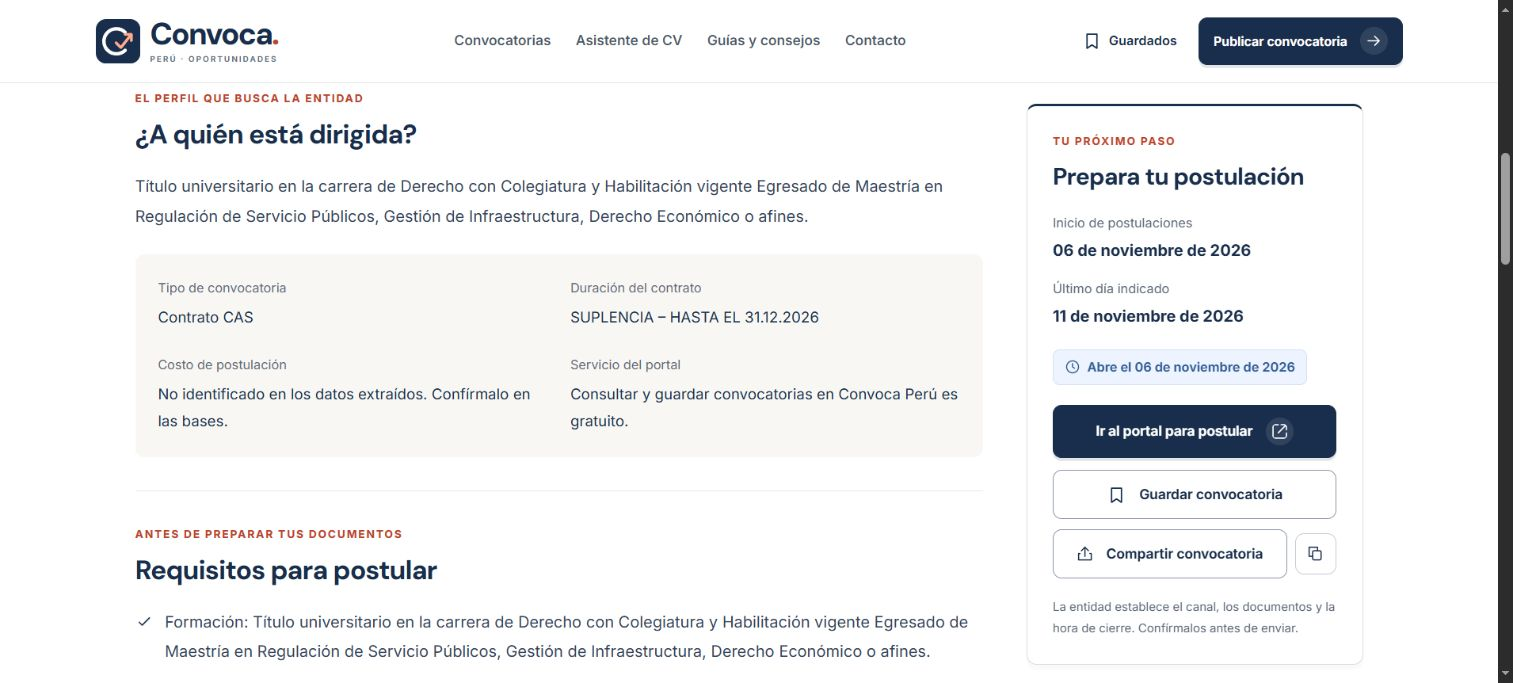
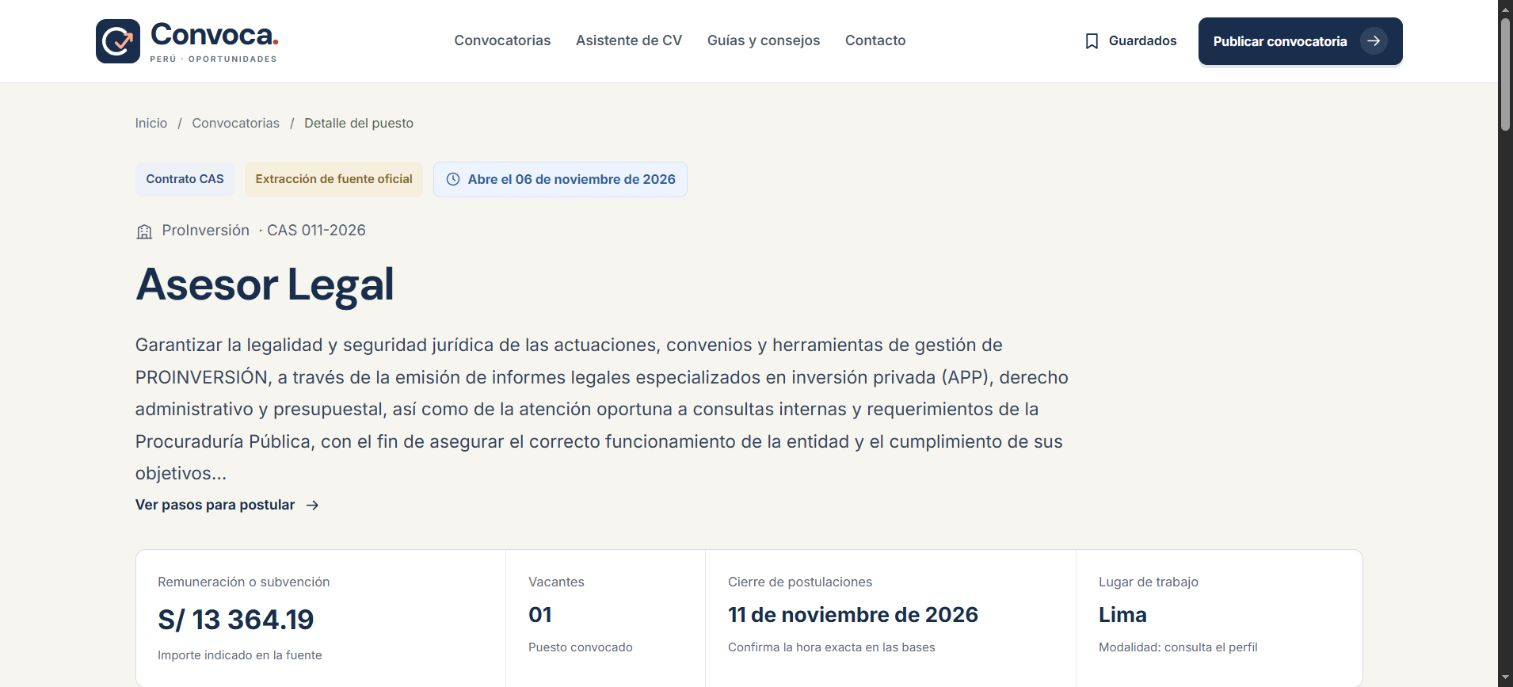
fix: recover transient Gemini timeouts within shared quota

diff --git a/src/app/api/cv/coach/route.ts b/src/app/api/cv/coach/route.ts
@@ -1,6 +1,10 @@
 import { assertOrigin, rateLimit } from "@/lib/editor-auth";
 import { coachRequest } from "@/lib/cv-coach-contract";
-import { coachEnabled, publicJobAdvice } from "@/lib/cv-coach";
+import {
+  coachEnabled,
+  publicJobAdvice,
+  transientCoachError,
+} from "@/lib/cv-coach";
 import { resolveCvJob } from "@/lib/cv-jobs";
 import { readJsonBody, RequestBodyError } from "@/lib/request-body";
 export const runtime = "nodejs";
@@ -81,7 +85,31 @@ export async function POST(request: Request) {
         429,
       );
     stage = "provider";
-    return reply({ advice: await publicJobAdvice(job) });
+    try {
+      return reply({ advice: await publicJobAdvice(job) });
+    } catch (error) {
+      if (!transientCoachError(error)) throw error;
+      // Every provider attempt, including the single retry, consumes shared quota.
+      stage = "retry-limit";
+      if (
+        !(await rateLimit(
+          new Request("https://convoca-peru.invalid"),
+          "cv-global",
+          max,
+          86400,
+        ))
+      )
+        return reply(
+          {
+            error:
+              "Se alcanzó el límite diario de consejos. El análisis local continúa disponible.",
+          },
+          429,
+        );
+      await new Promise((resolve) => setTimeout(resolve, 400));
+      stage = "provider-retry";
+      return reply({ advice: await publicJobAdvice(job) });
+    }
   } catch (error) {
     // Operational metadata only: never log provider messages, prompts, keys or CV text.
     console.error("CV coaching unavailable", {

diff --git a/src/lib/cv-coach.ts b/src/lib/cv-coach.ts
@@ -10,7 +10,7 @@ export function coachEnabled() {
 export async function publicJobAdvice(job: CvJob) {
   const ai = new GoogleGenAI({
     apiKey: process.env.GEMINI_API_KEY!,
-    httpOptions: { timeout: 25000, retryOptions: { attempts: 1 } },
+    httpOptions: { timeout: 12000, retryOptions: { attempts: 1 } },
   });
   const response = await ai.models.generateContent({
     model: process.env.GEMINI_MODEL || "gemini-3.1-flash-lite",
@@ -33,4 +33,18 @@ export async function publicJobAdvice(job: CvJob) {
   const output = response.text || "";
   if (output.length > 16000) throw new Error("Respuesta demasiado grande.");
   return validateAdvice(JSON.parse(output));
+}
+
+export function transientCoachError(error: unknown) {
+  if (
+    error &&
+    typeof error === "object" &&
+    "status" in error &&
+    [503, 504].includes(Number(error.status))
+  )
+    return true;
+  return (
+    error instanceof Error &&
+    ["AbortError", "TimeoutError"].includes(error.name)
+  );
 }

diff --git a/docs/ASISTENTE-CV.md b/docs/ASISTENTE-CV.md
@@ -14,7 +14,7 @@ La API `/api/cv/coach` acepta exclusivamente `{jobKey, adult: true}`. Resuelve e
 
 Esta separación responde a las condiciones de la [cuota gratuita de Gemini](https://ai.google.dev/gemini-api/terms): no se deben enviar datos personales, confidenciales o sensibles. La interfaz informa sobre el proveedor y requiere confirmar mayoría de edad. No hay anuncios en el asistente.
 
-Variables privadas (ver `.env.example`): GEMINI_API_KEY, GEMINI_MODEL, GEMINI_CV_ENABLED y GEMINI_DAILY_LIMIT. No deben usar el prefijo NEXT_PUBLIC_. Límite por conexión: dos consultas por hora. Límite compartido: veinte por ventana de 24 horas por defecto, como máximo cincuenta. En Vercel, los contadores usan la función atómica existente de Supabase. El SDK hace un solo intento por petición y tiene un tiempo máximo de 25 segundos. Las respuestas deben ajustarse al esquema y los errores no incluyen mensajes privados del proveedor.
+Variables privadas (ver `.env.example`): GEMINI_API_KEY, GEMINI_MODEL, GEMINI_CV_ENABLED y GEMINI_DAILY_LIMIT. No deben usar el prefijo NEXT_PUBLIC_. Límite por conexión: dos consultas por hora. Límite compartido: veinte llamadas al proveedor por ventana de 24 horas por defecto, como máximo cincuenta. En Vercel, los contadores usan la función atómica existente de Supabase. Cada intento del SDK dura como máximo 12 segundos, sin reintentos internos. La ruta permite un único reintento ante 503, 504 o timeout; vuelve a consumir el contador global antes de llamar al modelo. No reintenta respuestas inválidas, credenciales rechazadas ni cuotas agotadas. Las respuestas deben ajustarse al esquema y los errores no incluyen mensajes privados del proveedor.
 
 Pruebas reales del 3 de noviembre: inicialmente gemini-3.1-flash-lite respondió HTTP 503 y agotó tiempos de espera. En la comprobación posterior respondió correctamente tanto desde el SDK como a través de `/api/cv/coach` con los requisitos reales de Asesor Legal: HTTP 200 y respuesta estructurada validada. El proveedor todavía puede tener errores transitorios; se informa del fallo y el análisis local continúa disponible. Los fallos, respuestas inválidas y límites se verificaron además con un proveedor simulado. Con autorización del propietario se guardó GEMINI_API_KEY como Secret exclusivo de producción de convoca-peru en Vercel, junto con el modelo, la activación y el límite compartido de veinte consultas. No se cambió la facturación del proveedor.
 

diff --git a/docs/VALIDATION.md b/docs/VALIDATION.md
@@ -8,6 +8,8 @@ Capturas: [portada actual](redisenio-portada-final.png) y [ficha con condiciones
 
 Segunda revisión del 3 de noviembre: identidad azul tinta/coral/papel, DM Sans en encabezados, botones y controles de copia renovados, portada con una convocatoria real destacada, categorías compactas y sección de CV con ilustración nativa. Se comprobó la búsqueda de Derecho + Lima + CAS con una coincidencia real. Anchos de 320 y 375 px sin desbordamiento horizontal. Gemini produjo respuestas estructuradas correctas tanto en el SDK como en la API completa, aunque el proveedor también mostró fallos transitorios que la interfaz gestiona. El contador global se verificó contra Supabase y las cuatro variables necesarias se guardaron en producción con autorización. El valor de la clave no se muestra en pruebas ni documentación.
 
+Publicación del rediseño: commit fa4de3b, despliegue de producción CdjymWyk966wAVvVmAtLMPihmyb8, estado Ready. Portada, buscador y asistente devuelven HTTP 200; editor y cron sin credenciales devuelven 401. Tres páginas y once scripts publicados se revisaron sin encontrar datos privados. Las capturas se renovaron desde producción. El registro de Gemini identificó un 504 del proveedor; se añadió un reintento limitado, con una nueva reserva de cuota antes de cada llamada. Las pruebas cubren recuperación, máximo de dos intentos y cancelación del reintento si se agotó el contador global.
+
 - ESLint, TypeScript, compilación y pruebas de búsqueda.
 - Pruebas de validación editorial, estados, fechas inválidas, URL de la fuente y activación condicionada de anuncios.
 - Instancia HTTP aislada en 3061 con .data-tests: acceso protegido, rechazo de solicitudes de otro origen, creación, publicación, edición, conflicto de versiones, archivo y guías.
